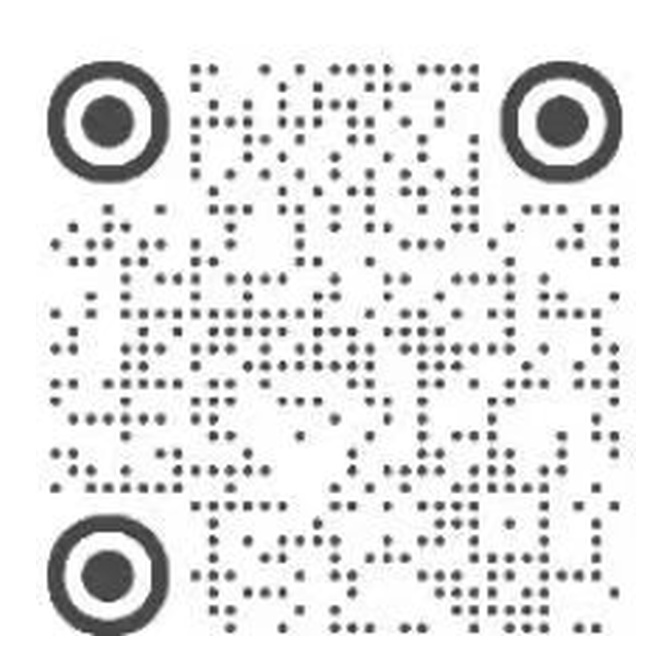
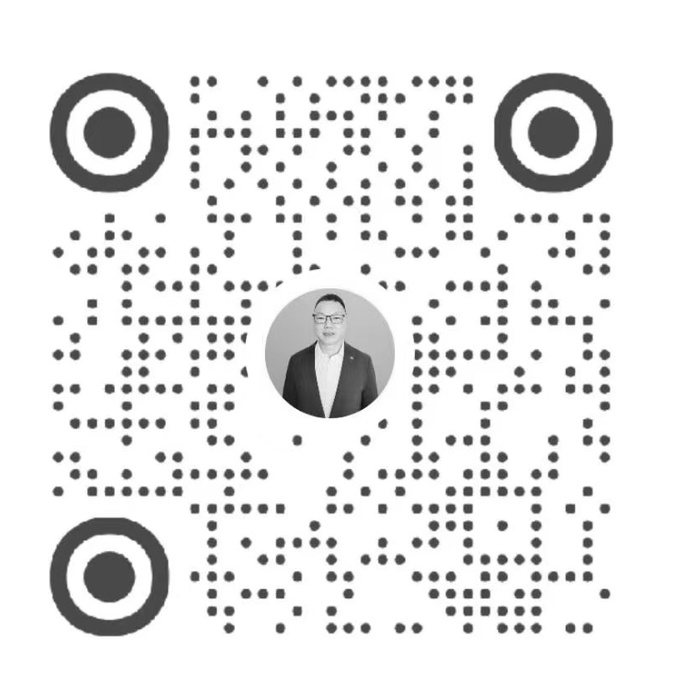
页脚小红书码换成新名片码（清晰版，加版本号防缓存）

Changed region(s): [[0.0625, 0.0625, 0.9375, 0.9688], [0.0625, 0.7188, 0.0938, 0.75]]

diff --git a/daily/index.html b/daily/index.html
@@ -248,7 +248,7 @@ article.card:target{box-shadow:0 0 0 2px #2f8fb5 inset;border-radius:18px}
         <div class="qrrow">
           <figure class="qrcell"><img src="../assets/img/wechat-qr.jpg" alt="微信二维码：TT纺织 窦金龙"><figcaption>微信 · 窦金龙</figcaption></figure>
           <figure class="qrcell"><img src="../assets/img/douyin-qr.jpg" alt="抖音二维码：dv面料手记 抖音号 90405142813" style="border-radius:50%"><figcaption>抖音</figcaption></figure>
-          <figure class="qrcell"><img src="../assets/img/xhs-qr.jpg" alt="小红书二维码：dv面料手记 小红书号 dv13588355444" style="border-radius:6px"><figcaption>小红书</figcaption></figure>
+          <figure class="qrcell"><img src="../assets/img/xhs-qr.jpg?v=2" alt="小红书二维码：dv面料手记 小红书号 dv13588355444" style="border-radius:6px"><figcaption>小红书</figcaption></figure>
         </div>
       </div>
 

diff --git a/articles/a1.html b/articles/a1.html
@@ -107,7 +107,7 @@
         <div class="qrrow">
           <figure class="qrcell"><img src="../assets/img/wechat-qr.jpg" alt="微信二维码：TT纺织 窦金龙"><figcaption>微信 · 窦金龙</figcaption></figure>
           <figure class="qrcell"><img src="../assets/img/douyin-qr.jpg" alt="抖音二维码：dv面料手记 抖音号 90405142813" style="border-radius:50%"><figcaption>抖音</figcaption></figure>
-          <figure class="qrcell"><img src="../assets/img/xhs-qr.jpg" alt="小红书二维码：dv面料手记 小红书号 dv13588355444" style="border-radius:6px"><figcaption>小红书</figcaption></figure>
+          <figure class="qrcell"><img src="../assets/img/xhs-qr.jpg?v=2" alt="小红书二维码：dv面料手记 小红书号 dv13588355444" style="border-radius:6px"><figcaption>小红书</figcaption></figure>
         </div>
       </div>
 

diff --git a/articles/a2.html b/articles/a2.html
@@ -108,7 +108,7 @@
         <div class="qrrow">
           <figure class="qrcell"><img src="../assets/img/wechat-qr.jpg" alt="微信二维码：TT纺织 窦金龙"><figcaption>微信 · 窦金龙</figcaption></figure>
           <figure class="qrcell"><img src="../assets/img/douyin-qr.jpg" alt="抖音二维码：dv面料手记 抖音号 90405142813" style="border-radius:50%"><figcaption>抖音</figcaption></figure>
-          <figure class="qrcell"><img src="../assets/img/xhs-qr.jpg" alt="小红书二维码：dv面料手记 小红书号 dv13588355444" style="border-radius:6px"><figcaption>小红书</figcaption></figure>
+          <figure class="qrcell"><img src="../assets/img/xhs-qr.jpg?v=2" alt="小红书二维码：dv面料手记 小红书号 dv13588355444" style="border-radius:6px"><figcaption>小红书</figcaption></figure>
         </div>
       </div>
 

diff --git a/articles/a3.html b/articles/a3.html
@@ -104,7 +104,7 @@
         <div class="qrrow">
           <figure class="qrcell"><img src="../assets/img/wechat-qr.jpg" alt="微信二维码：TT纺织 窦金龙"><figcaption>微信 · 窦金龙</figcaption></figure>
           <figure class="qrcell"><img src="../assets/img/douyin-qr.jpg" alt="抖音二维码：dv面料手记 抖音号 90405142813" style="border-radius:50%"><figcaption>抖音</figcaption></figure>
-          <figure class="qrcell"><img src="../assets/img/xhs-qr.jpg" alt="小红书二维码：dv面料手记 小红书号 dv13588355444" style="border-radius:6px"><figcaption>小红书</figcaption></figure>
+          <figure class="qrcell"><img src="../assets/img/xhs-qr.jpg?v=2" alt="小红书二维码：dv面料手记 小红书号 dv13588355444" style="border-radius:6px"><figcaption>小红书</figcaption></figure>
         </div>
       </div>
 

diff --git a/articles/a4.html b/articles/a4.html
@@ -102,7 +102,7 @@
         <div class="qrrow">
           <figure class="qrcell"><img src="../assets/img/wechat-qr.jpg" alt="微信二维码：TT纺织 窦金龙"><figcaption>微信 · 窦金龙</figcaption></figure>
           <figure class="qrcell"><img src="../assets/img/douyin-qr.jpg" alt="抖音二维码：dv面料手记 抖音号 90405142813" style="border-radius:50%"><figcaption>抖音</figcaption></figure>
-          <figure class="qrcell"><img src="../assets/img/xhs-qr.jpg" alt="小红书二维码：dv面料手记 小红书号 dv13588355444" style="border-radius:6px"><figcaption>小红书</figcaption></figure>
+          <figure class="qrcell"><img src="../assets/img/xhs-qr.jpg?v=2" alt="小红书二维码：dv面料手记 小红书号 dv13588355444" style="border-radius:6px"><figcaption>小红书</figcaption></figure>
         </div>
       </div>
 

diff --git a/articles/index.html b/articles/index.html
@@ -114,7 +114,7 @@
         <div class="qrrow">
           <figure class="qrcell"><img src="../assets/img/wechat-qr.jpg" alt="微信二维码：TT纺织 窦金龙"><figcaption>微信 · 窦金龙</figcaption></figure>
           <figure class="qrcell"><img src="../assets/img/douyin-qr.jpg" alt="抖音二维码：dv面料手记 抖音号 90405142813" style="border-radius:50%"><figcaption>抖音</figcaption></figure>
-          <figure class="qrcell"><img src="../assets/img/xhs-qr.jpg" alt="小红书二维码：dv面料手记 小红书号 dv13588355444" style="border-radius:6px"><figcaption>小红书</figcaption></figure>
+          <figure class="qrcell"><img src="../assets/img/xhs-qr.jpg?v=2" alt="小红书二维码：dv面料手记 小红书号 dv13588355444" style="border-radius:6px"><figcaption>小红书</figcaption></figure>
         </div>
       </div>
 

diff --git a/cases/c1.html b/cases/c1.html
@@ -117,7 +117,7 @@
         <div class="qrrow">
           <figure class="qrcell"><img src="../assets/img/wechat-qr.jpg" alt="微信二维码：TT纺织 窦金龙"><figcaption>微信 · 窦金龙</figcaption></figure>
           <figure class="qrcell"><img src="../assets/img/douyin-qr.jpg" alt="抖音二维码：dv面料手记 抖音号 90405142813" style="border-radius:50%"><figcaption>抖音</figcaption></figure>
-          <figure class="qrcell"><img src="../assets/img/xhs-qr.jpg" alt="小红书二维码：dv面料手记 小红书号 dv13588355444" style="border-radius:6px"><figcaption>小红书</figcaption></figure>
+          <figure class="qrcell"><img src="../assets/img/xhs-qr.jpg?v=2" alt="小红书二维码：dv面料手记 小红书号 dv13588355444" style="border-radius:6px"><figcaption>小红书</figcaption></figure>
         </div>
       </div>
 

diff --git a/cases/c2.html b/cases/c2.html
@@ -117,7 +117,7 @@
         <div class="qrrow">
           <figure class="qrcell"><img src="../assets/img/wechat-qr.jpg" alt="微信二维码：TT纺织 窦金龙"><figcaption>微信 · 窦金龙</figcaption></figure>
           <figure class="qrcell"><img src="../assets/img/douyin-qr.jpg" alt="抖音二维码：dv面料手记 抖音号 90405142813" style="border-radius:50%"><figcaption>抖音</figcaption></figure>
-          <figure class="qrcell"><img src="../assets/img/xhs-qr.jpg" alt="小红书二维码：dv面料手记 小红书号 dv13588355444" style="border-radius:6px"><figcaption>小红书</figcaption></figure>
+          <figure class="qrcell"><img src="../assets/img/xhs-qr.jpg?v=2" alt="小红书二维码：dv面料手记 小红书号 dv13588355444" style="border-radius:6px"><figcaption>小红书</figcaption></figure>
         </div>
       </div>
 

diff --git a/cases/c3.html b/cases/c3.html
@@ -117,7 +117,7 @@
         <div class="qrrow">
           <figure class="qrcell"><img src="../assets/img/wechat-qr.jpg" alt="微信二维码：TT纺织 窦金龙"><figcaption>微信 · 窦金龙</figcaption></figure>
           <figure class="qrcell"><img src="../assets/img/douyin-qr.jpg" alt="抖音二维码：dv面料手记 抖音号 90405142813" style="border-radius:50%"><figcaption>抖音</figcaption></figure>
-          <figure class="qrcell"><img src="../assets/img/xhs-qr.jpg" alt="小红书二维码：dv面料手记 小红书号 dv13588355444" style="border-radius:6px"><figcaption>小红书</figcaption></figure>
+          <figure class="qrcell"><img src="../assets/img/xhs-qr.jpg?v=2" alt="小红书二维码：dv面料手记 小红书号 dv13588355444" style="border-radius:6px"><figcaption>小红书</figcaption></figure>
         </div>
       </div>
 

diff --git a/cases/index.html b/cases/index.html
@@ -103,7 +103,7 @@
         <div class="qrrow">
           <figure class="qrcell"><img src="../assets/img/wechat-qr.jpg" alt="微信二维码：TT纺织 窦金龙"><figcaption>微信 · 窦金龙</figcaption></figure>
           <figure class="qrcell"><img src="../assets/img/douyin-qr.jpg" alt="抖音二维码：dv面料手记 抖音号 90405142813" style="border-radius:50%"><figcaption>抖音</figcaption></figure>
-          <figure class="qrcell"><img src="../assets/img/xhs-qr.jpg" alt="小红书二维码：dv面料手记 小红书号 dv13588355444" style="border-radius:6px"><figcaption>小红书</figcaption></figure>
+          <figure class="qrcell"><img src="../assets/img/xhs-qr.jpg?v=2" alt="小红书二维码：dv面料手记 小红书号 dv13588355444" style="border-radius:6px"><figcaption>小红书</figcaption></figure>
         </div>
       </div>
 

diff --git a/daily/d0927.html b/daily/d0927.html
@@ -111,7 +111,7 @@
         <div class="qrrow">
           <figure class="qrcell"><img src="../assets/img/wechat-qr.jpg" alt="微信二维码：TT纺织 窦金龙"><figcaption>微信 · 窦金龙</figcaption></figure>
           <figure class="qrcell"><img src="../assets/img/douyin-qr.jpg" alt="抖音二维码：dv面料手记 抖音号 90405142813" style="border-radius:50%"><figcaption>抖音</figcaption></figure>
-          <figure class="qrcell"><img src="../assets/img/xhs-qr.jpg" alt="小红书二维码：dv面料手记 小红书号 dv13588355444" style="border-radius:6px"><figcaption>小红书</figcaption></figure>
+          <figure class="qrcell"><img src="../assets/img/xhs-qr.jpg?v=2" alt="小红书二维码：dv面料手记 小红书号 dv13588355444" style="border-radius:6px"><figcaption>小红书</figcaption></figure>
         </div>
       </div>
 

diff --git a/daily/d0928.html b/daily/d0928.html
@@ -111,7 +111,7 @@
         <div class="qrrow">
           <figure class="qrcell"><img src="../assets/img/wechat-qr.jpg" alt="微信二维码：TT纺织 窦金龙"><figcaption>微信 · 窦金龙</figcaption></figure>
           <figure class="qrcell"><img src="../assets/img/douyin-qr.jpg" alt="抖音二维码：dv面料手记 抖音号 90405142813" style="border-radius:50%"><figcaption>抖音</figcaption></figure>
-          <figure class="qrcell"><img src="../assets/img/xhs-qr.jpg" alt="小红书二维码：dv面料手记 小红书号 dv13588355444" style="border-radius:6px"><figcaption>小红书</figcaption></figure>
+          <figure class="qrcell"><img src="../assets/img/xhs-qr.jpg?v=2" alt="小红书二维码：dv面料手记 小红书号 dv13588355444" style="border-radius:6px"><figcaption>小红书</figcaption></figure>
         </div>
       </div>
 
